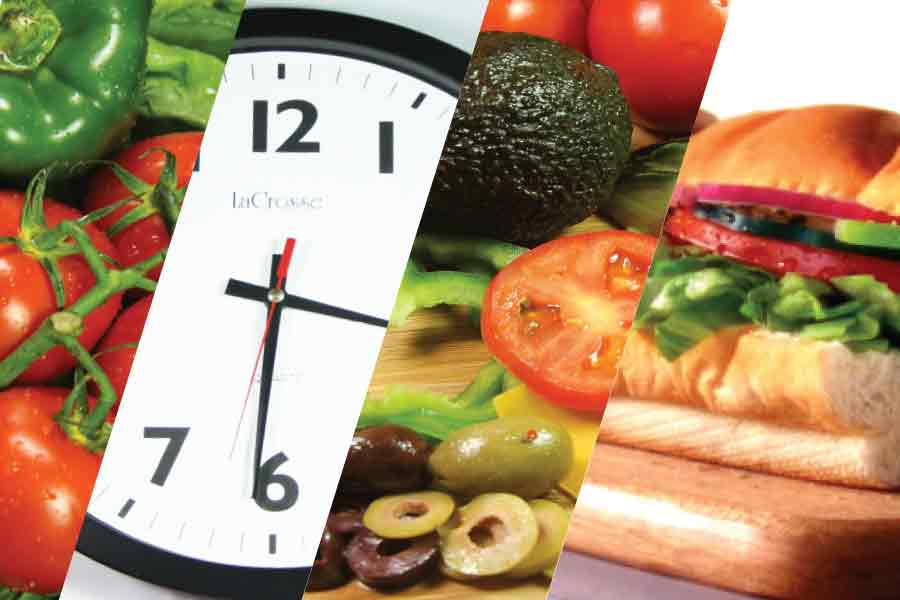
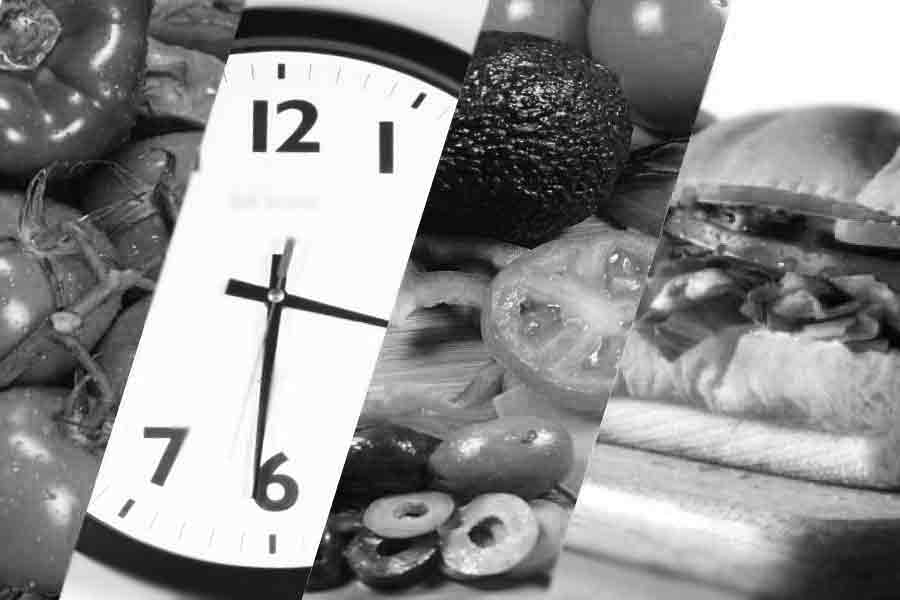
home page changing to black and white

diff --git a/index.html b/index.html
@@ -32,7 +32,7 @@ layout: default
       <div class="unit xs-1 s-1 m-1-2 l-1-4 rel space">
         <a itemprop="url" href="{{site.baseurl}}/winnie-the-pooh">
           <div class="opc img">
-            <img itemprop="image" src="{{site.baseurl}}/images/print-photo.jpg" alt="">
+            <img itemprop="image" src="{{site.baseurl}}/images/print-photo-b-w.jpg" alt="">
           </div>
           <h3 itemprop="name" class="title exa white">Print</h3>
         </a>
